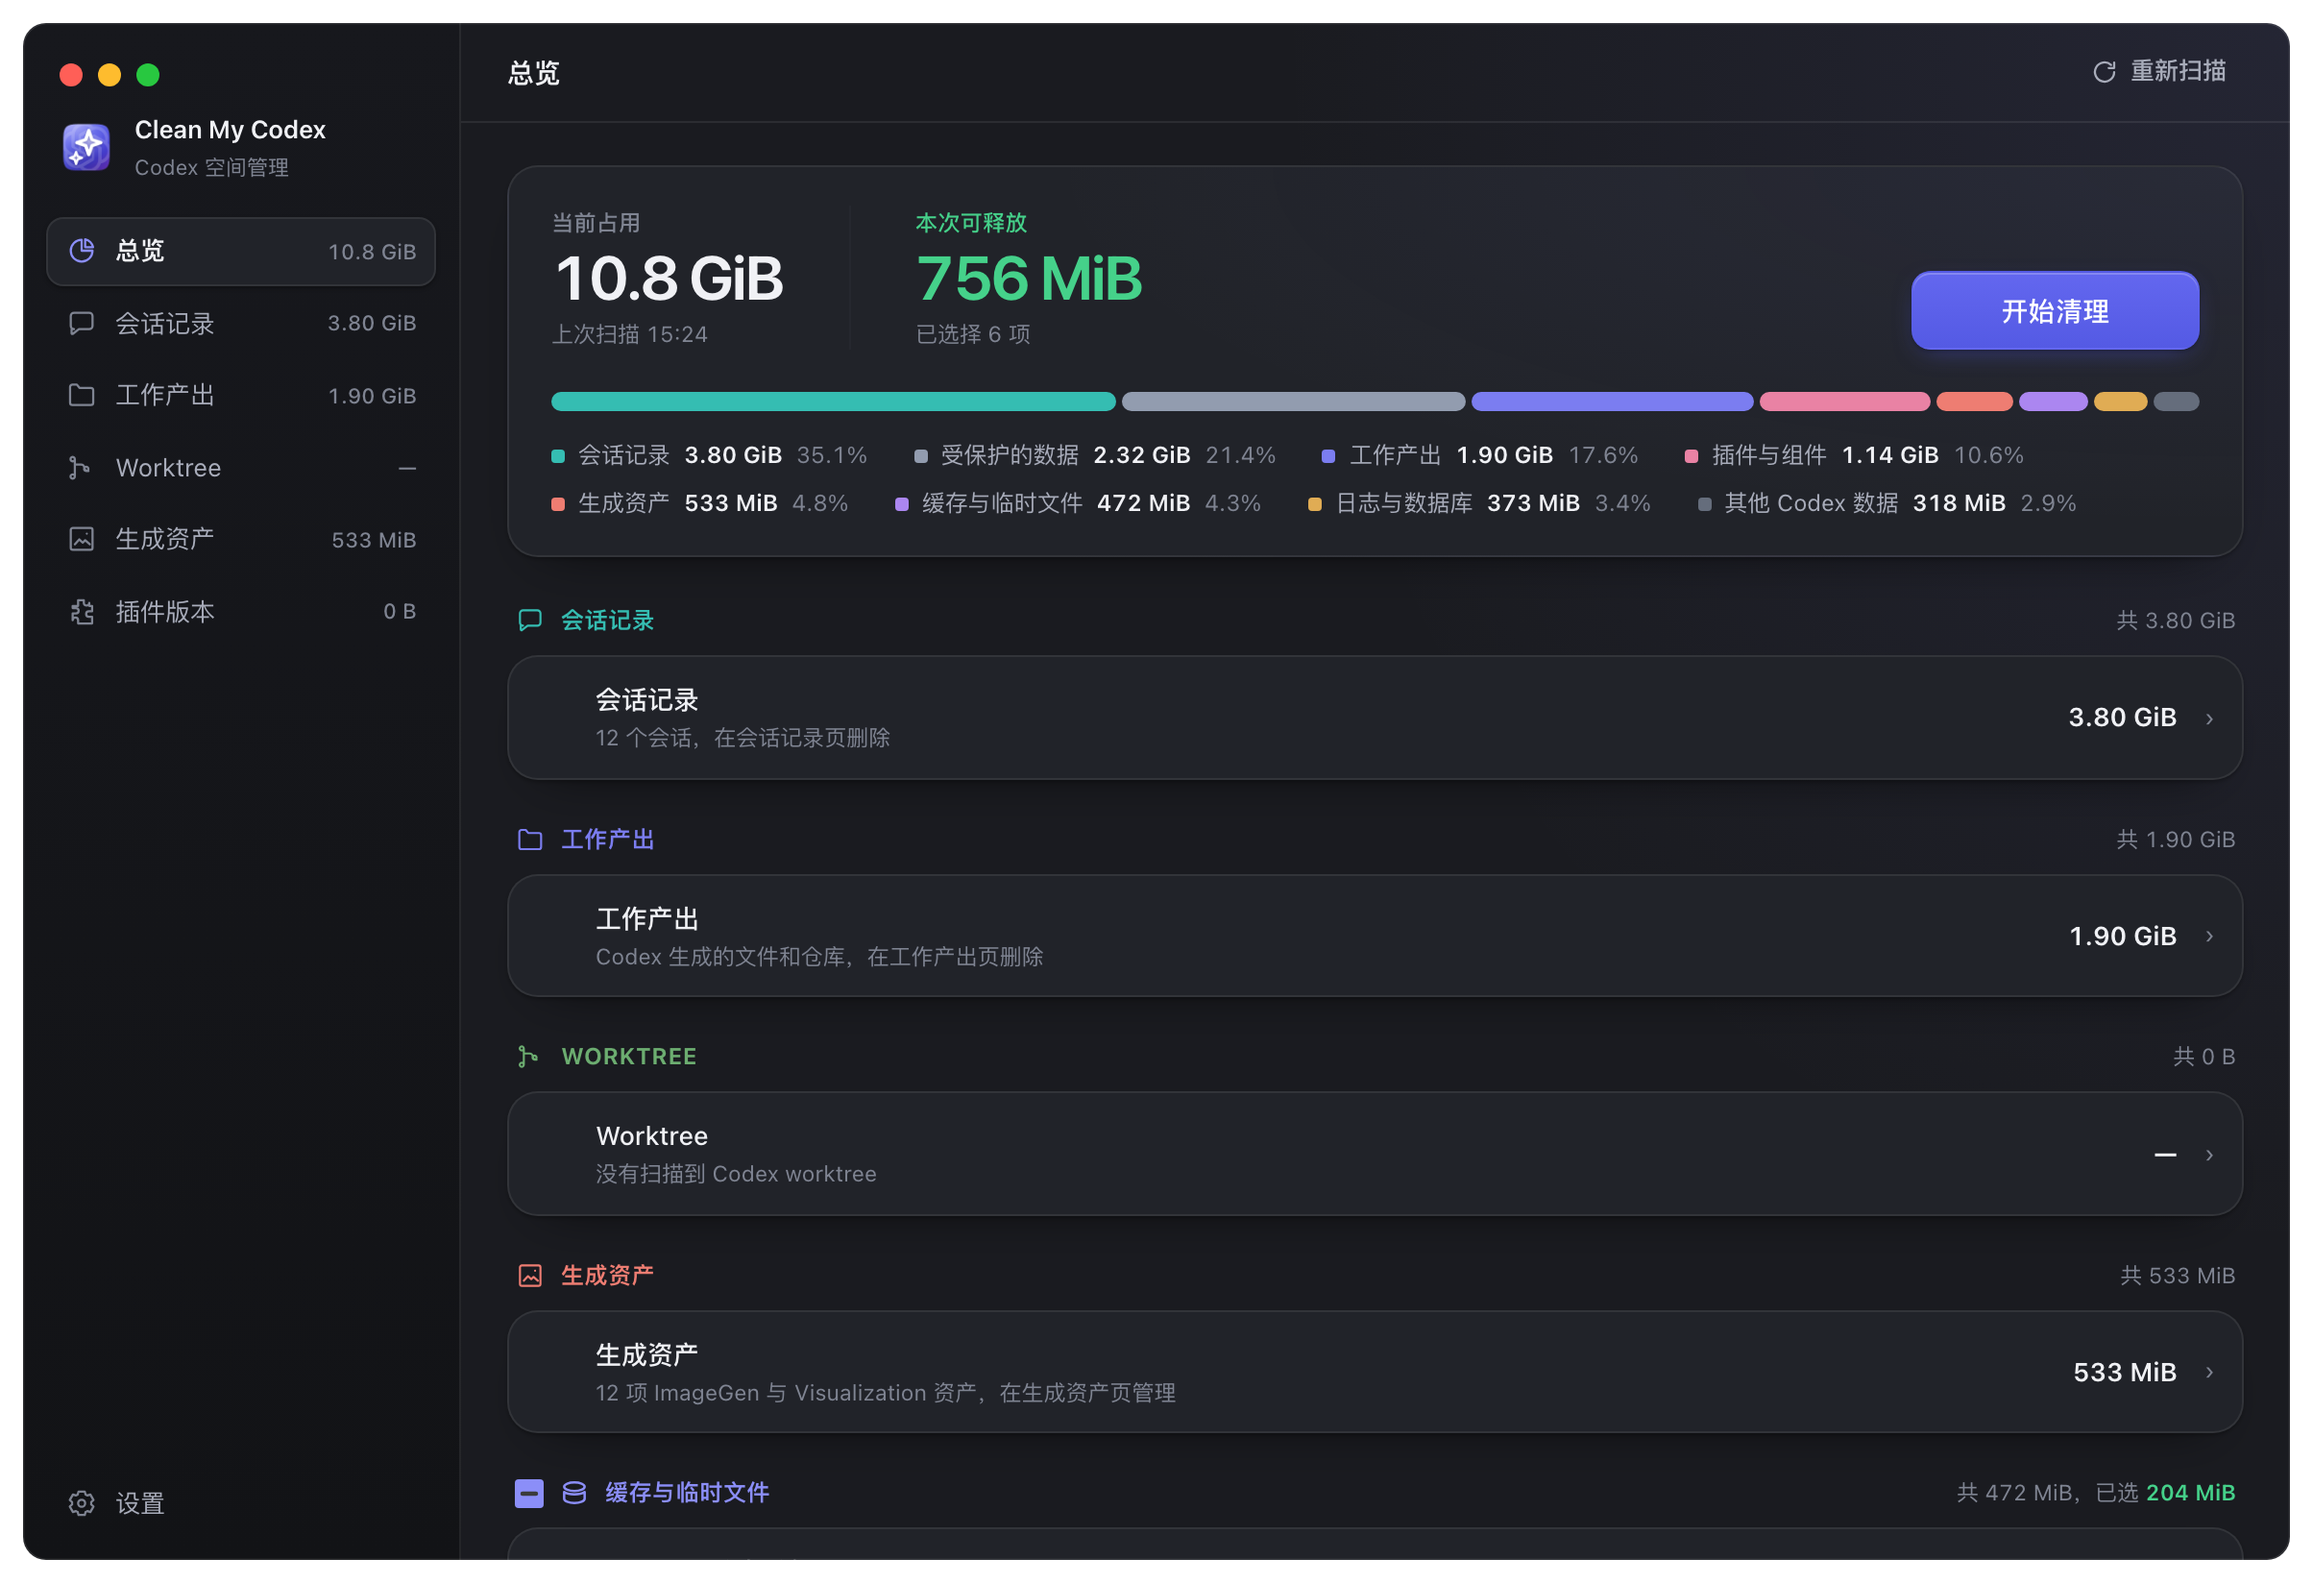
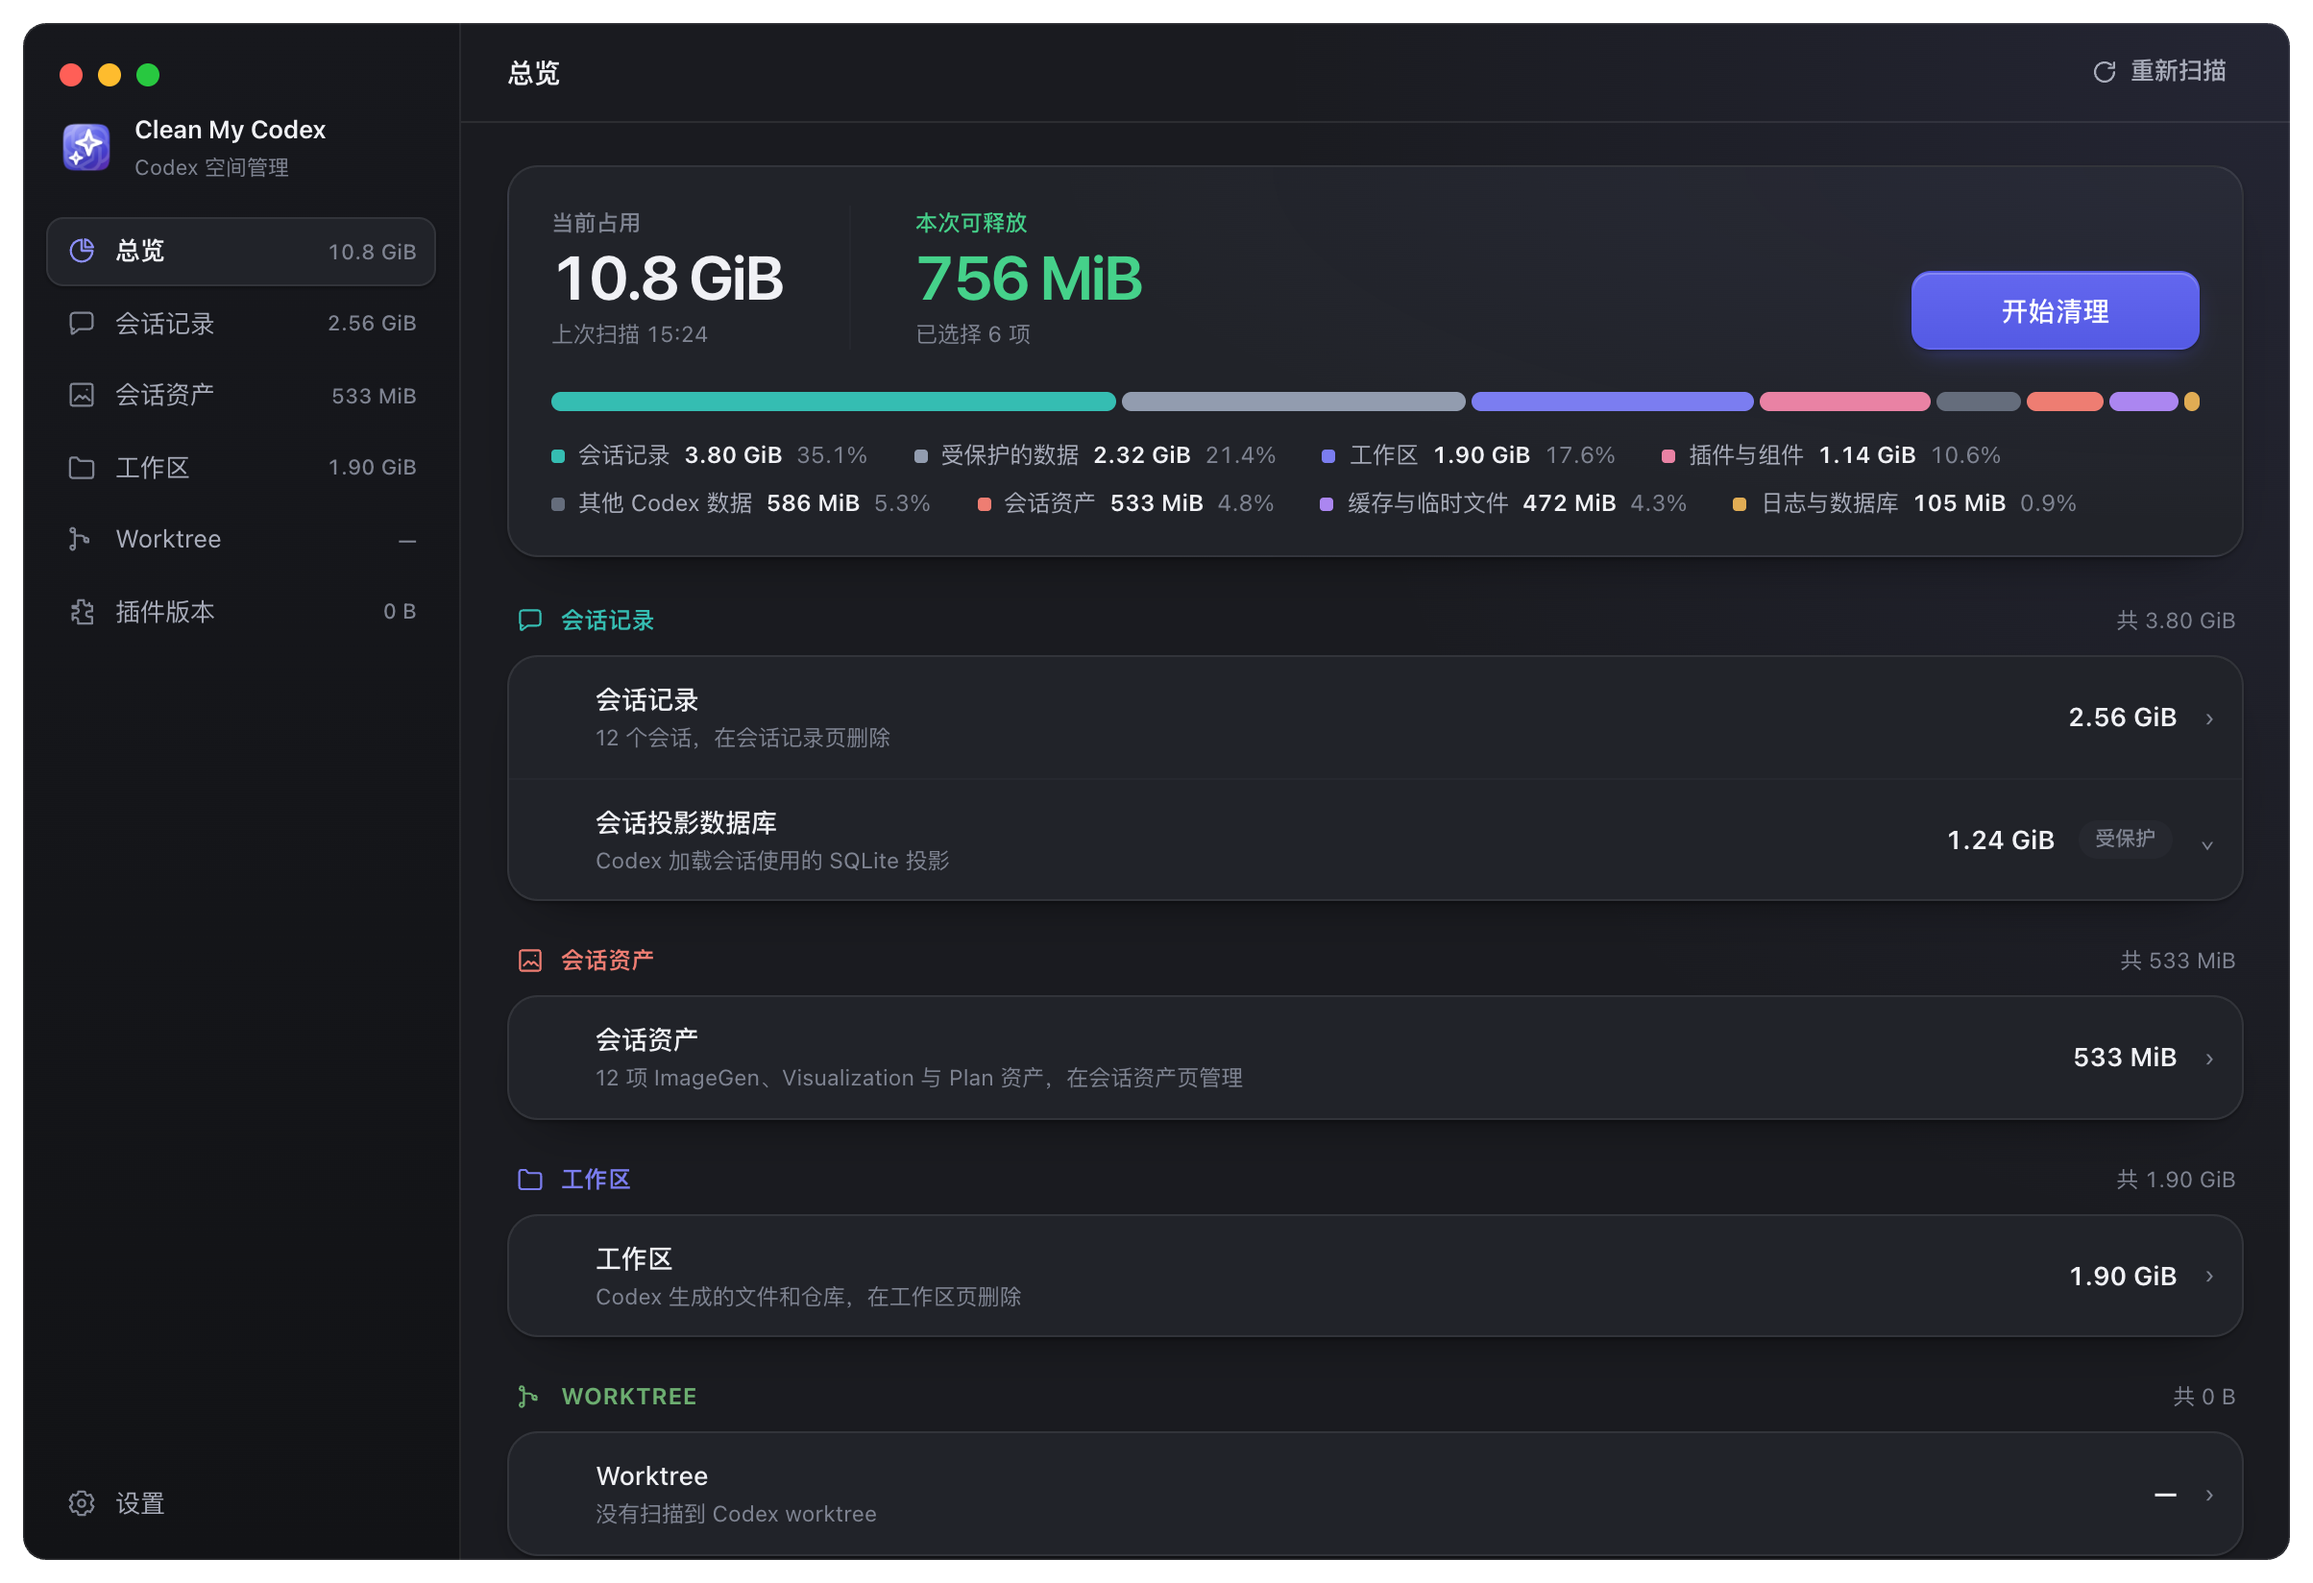
README

diff --git a/tests/scanner.test.ts b/tests/scanner.test.ts
@@ -487,7 +487,6 @@ describe('storage scanner semantics', () => {
     const snapshot = await scanSnapshot(locations, [])
     const planPaths = snapshot.generatedAssets.filter((asset) => asset.kind === 'plan').map((asset) => asset.path)
     expect(planPaths).toEqual([join(locations.plans, thread)])
-    expect(planPaths).not.toContain(join(locations.plans, 'not-a-thread-id'))
     const unrecognized = snapshot.categories.find((category) => category.kind === 'unrecognized')?.entries.map((entry) => entry.url) ?? []
     expect(unrecognized).not.toContain(join(locations.plans, 'not-a-thread-id'))
   })

diff --git a/tests/storage-distribution.test.ts b/tests/storage-distribution.test.ts
@@ -32,7 +32,6 @@ describe('overview storage distribution', () => {
       other: 500
     })
     expect(result.total).toBe(1_500)
-    expect(result.items.reduce((sum, item) => sum + item.bytes / result.total, 0)).toBeCloseTo(1)
     expect(result.items.map((item) => item.bytes)).toEqual([500, 500, 380, 100, 20])
   })
 

diff --git a/README.md b/README.md
@@ -30,9 +30,9 @@ Pull requests are welcome. See [CONTRIBUTING.md](CONTRIBUTING.md) before startin
 
 ## What it does
 
-Codex accumulates: a rollout file for every conversation you have ever had, plugin versions it never got around to deleting, staging folders abandoned by an interrupted update, and whatever your sessions wrote to disk. Clean My Codex measures all of it in one pass and shows where the space actually went.
+Codex accumulates: a rollout file for every conversation you have ever had, plugin versions it never got around to deleting, staging folders abandoned by an interrupted update, and whatever your sessions wrote to disk. Clean My Codex scans all of it and lists each item by category with the space it takes.
 
-- **One scan, six areas.** The Codex data directory, sessions, session assets, plugins, worktrees and workspace, each with its own page and its own rules.
+- **Six scan areas.** The Codex data directory, sessions, session assets, plugins, worktrees and workspace — each has its own page and its own rules.
 - **Honest numbers.** A SQLite database contributes what it really occupies; its reusable free pages are never presented as space you can reclaim.
 - **Conservative by default.** Nothing is recommended without positive evidence that it is disposable, so a scan that recommends nothing is a normal result rather than a failure. Everything that is only counted is labelled that way in the interface.
 - **Whole conversations.** A session that spans several rollout segments and several layers of subagents is one row in the list and one deletion, with every derived database and every desktop-side copy cleaned up alongside it.
@@ -68,15 +68,30 @@ Scanning and cleanup run locally. Clean My Codex has no analytics or telemetry a
 
 ## How scanning works
 
-Scanning is scheduled by the Electron main process, and the expensive traversal runs in a worker so the interface never blocks. The result comes back in five parts:
+Scanning is scheduled by the Electron main process, and the expensive traversal runs in a worker so the interface never blocks. The result comes back in six parts:
 
 - **Codex data directory** — caches, logs and temporary files. A SQLite database only contributes its actual footprint; reusable free pages are never listed as cleanable.
 - **Sessions** — rollouts are read as a stream rather than loaded whole, session information is collected, and session assets are linked back to the conversation that produced them.
 - **Session assets** — ImageGen, Visualization and Plan results are scanned for file count, usage, modification time and source conversation; a Visualization source and its Viewer are grouped as one item, and a Plan is named by the H1 of its newest revision.
 - **Plugins** — the directories on disk are combined with what `codex app-server` reports, separating the current version from older versions and uninstall leftovers.
+- **Worktrees** — the checkout Codex creates under `~/.codex/worktrees` for a conversation that needs one. Each is listed with its repository state, how much of it is build output, and how many conversations ran there.
 - **Workspace** — scanned only once you open that page. Each output is matched with the source session title recorded in SQLite, and flagged when git has uncommitted or unpushed work.
 
 A scan result is only a read-only snapshot. When cleanup runs, the main process rebuilds its task list from that snapshot and re-validates every path; caches, configuration, credentials, the state database, the current plugins, worktrees and the workspace never enter scheduled cleanup.
+
+### Work output and generated assets
+
+Three of the six areas are things sessions leave on disk. They relate to sessions differently, so they are deleted differently.
+
+| Area | Where it lives | Relation to a session | How the link is built | How it is removed |
+| --- | --- | --- | --- | --- |
+| **Session assets** | `~/.codex/generated_images`, `visualizations`, `visualization-viewers`, `plans` | 1 session ↔ 1 directory | The directory name is the thread ID | `rm -rf` |
+| **Workspace** | `~/Documents/Codex` | N sessions ↔ 1 directory | `sourceThreads[]`, reverse-looked-up from the SQLite working directory | `rm -rf` + git safety check |
+| **Worktree** | the checkout under `~/.codex/worktrees` | N sessions ↔ 1 worktree | Same `sourceThreads[]` reverse lookup | `git worktree remove` |
+
+- **Session assets are deleted with their session; the workspace is not.** `generated_images/<thread-id>` belongs to one session alone, so once that session is gone the directory is garbage and removing it with the session is safe — there is no point keeping the child once the parent is gone. `~/Documents/Codex/xxx` may be shared by several sessions (`sourceThreads` is an array) and sits in your documents folder as real work, so it is not deleted with any one session. The rule in one line: session assets follow their session; the workspace does not.
+- **Cascade forward, not backward.** Deleting a worktree or a workspace folder can optionally also delete the conversations that ran there — parent deletes child. Session assets cannot delete the session they belong to — child does not delete parent: an asset is a session's product, not something that should decide the session's fate.
+- **The app removes these itself, not `thread/delete`.** None of these directories is managed by the `thread/delete` protocol; the app deletes them directly. The protocol only handles the session's own rollouts, database rows and index lines.
 
 ### Where the data comes from
 
